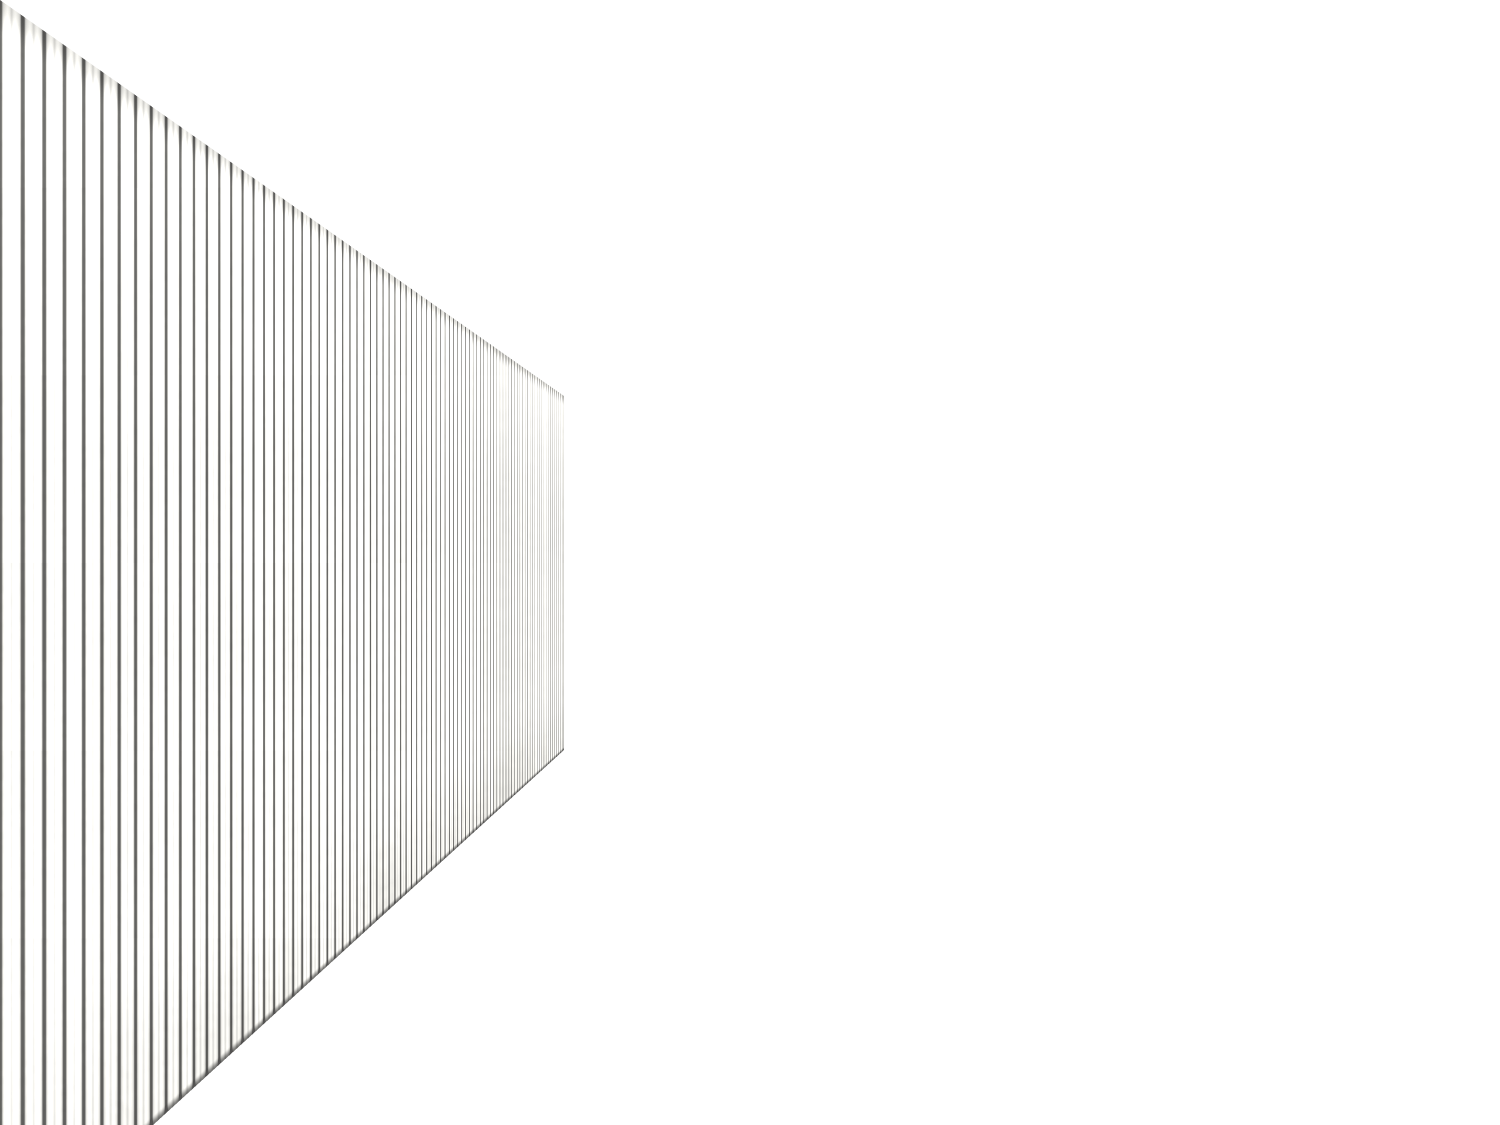
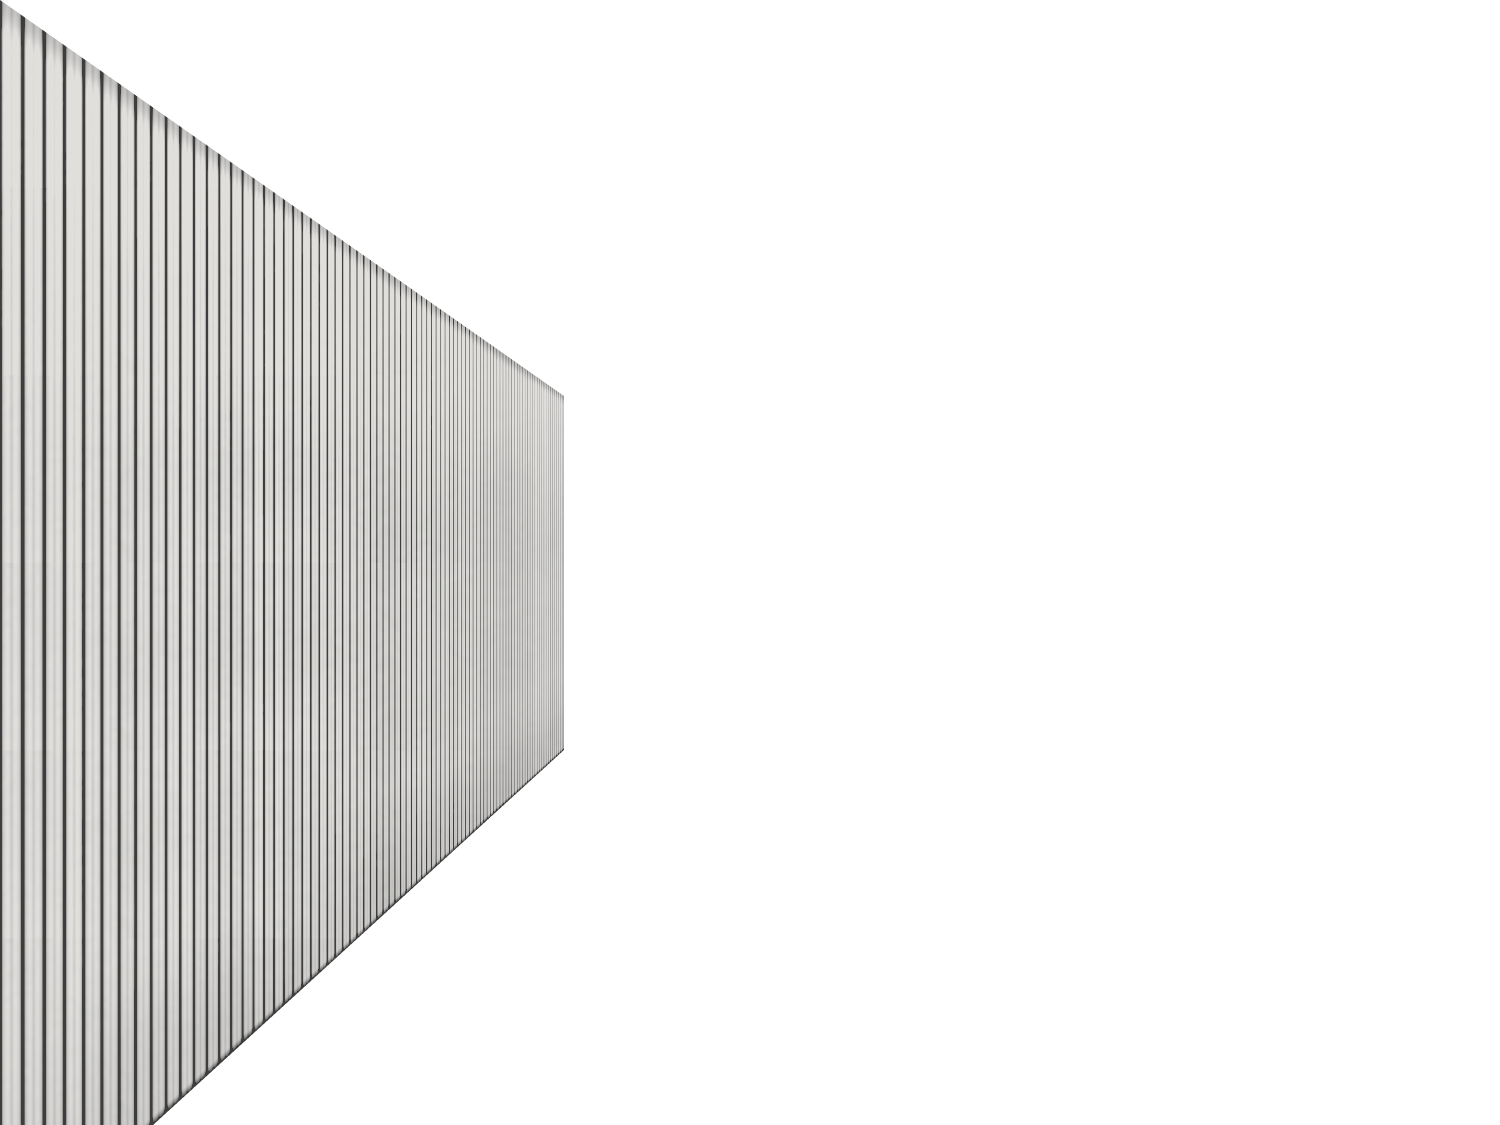
Improve white slat PNGs matching clean-white.jpg tone and crisp grooves

Changed region(s): [[0.0, 0.0, 0.3987, 1.0]]

diff --git a/assets/configurator.js b/assets/configurator.js
@@ -2879,9 +2879,9 @@ function photoHexToRgb(hex){
 const photoWinImgs = {};
 /* 클린 화이트 전용 타공판 오버레이 — 메이플 원본에서 우드 색을 빼고 화이트 도장으로 리컬러링한 PNG */
 const WHITE_SLATS = {
-  'slat_nocob': 'assets/slat-nocob-white.png?v=1',
-  'side_left':  'assets/side-slat-white-left.png?v=1',
-  'side_right': 'assets/side-slat-white-right.png?v=1'
+  'slat_nocob': 'assets/slat-nocob-white.png?v=2',
+  'side_left':  'assets/side-slat-white-left.png?v=2',
+  'side_right': 'assets/side-slat-white-right.png?v=2'
 };
 function preloadPhotoWins(){
   const map = {
